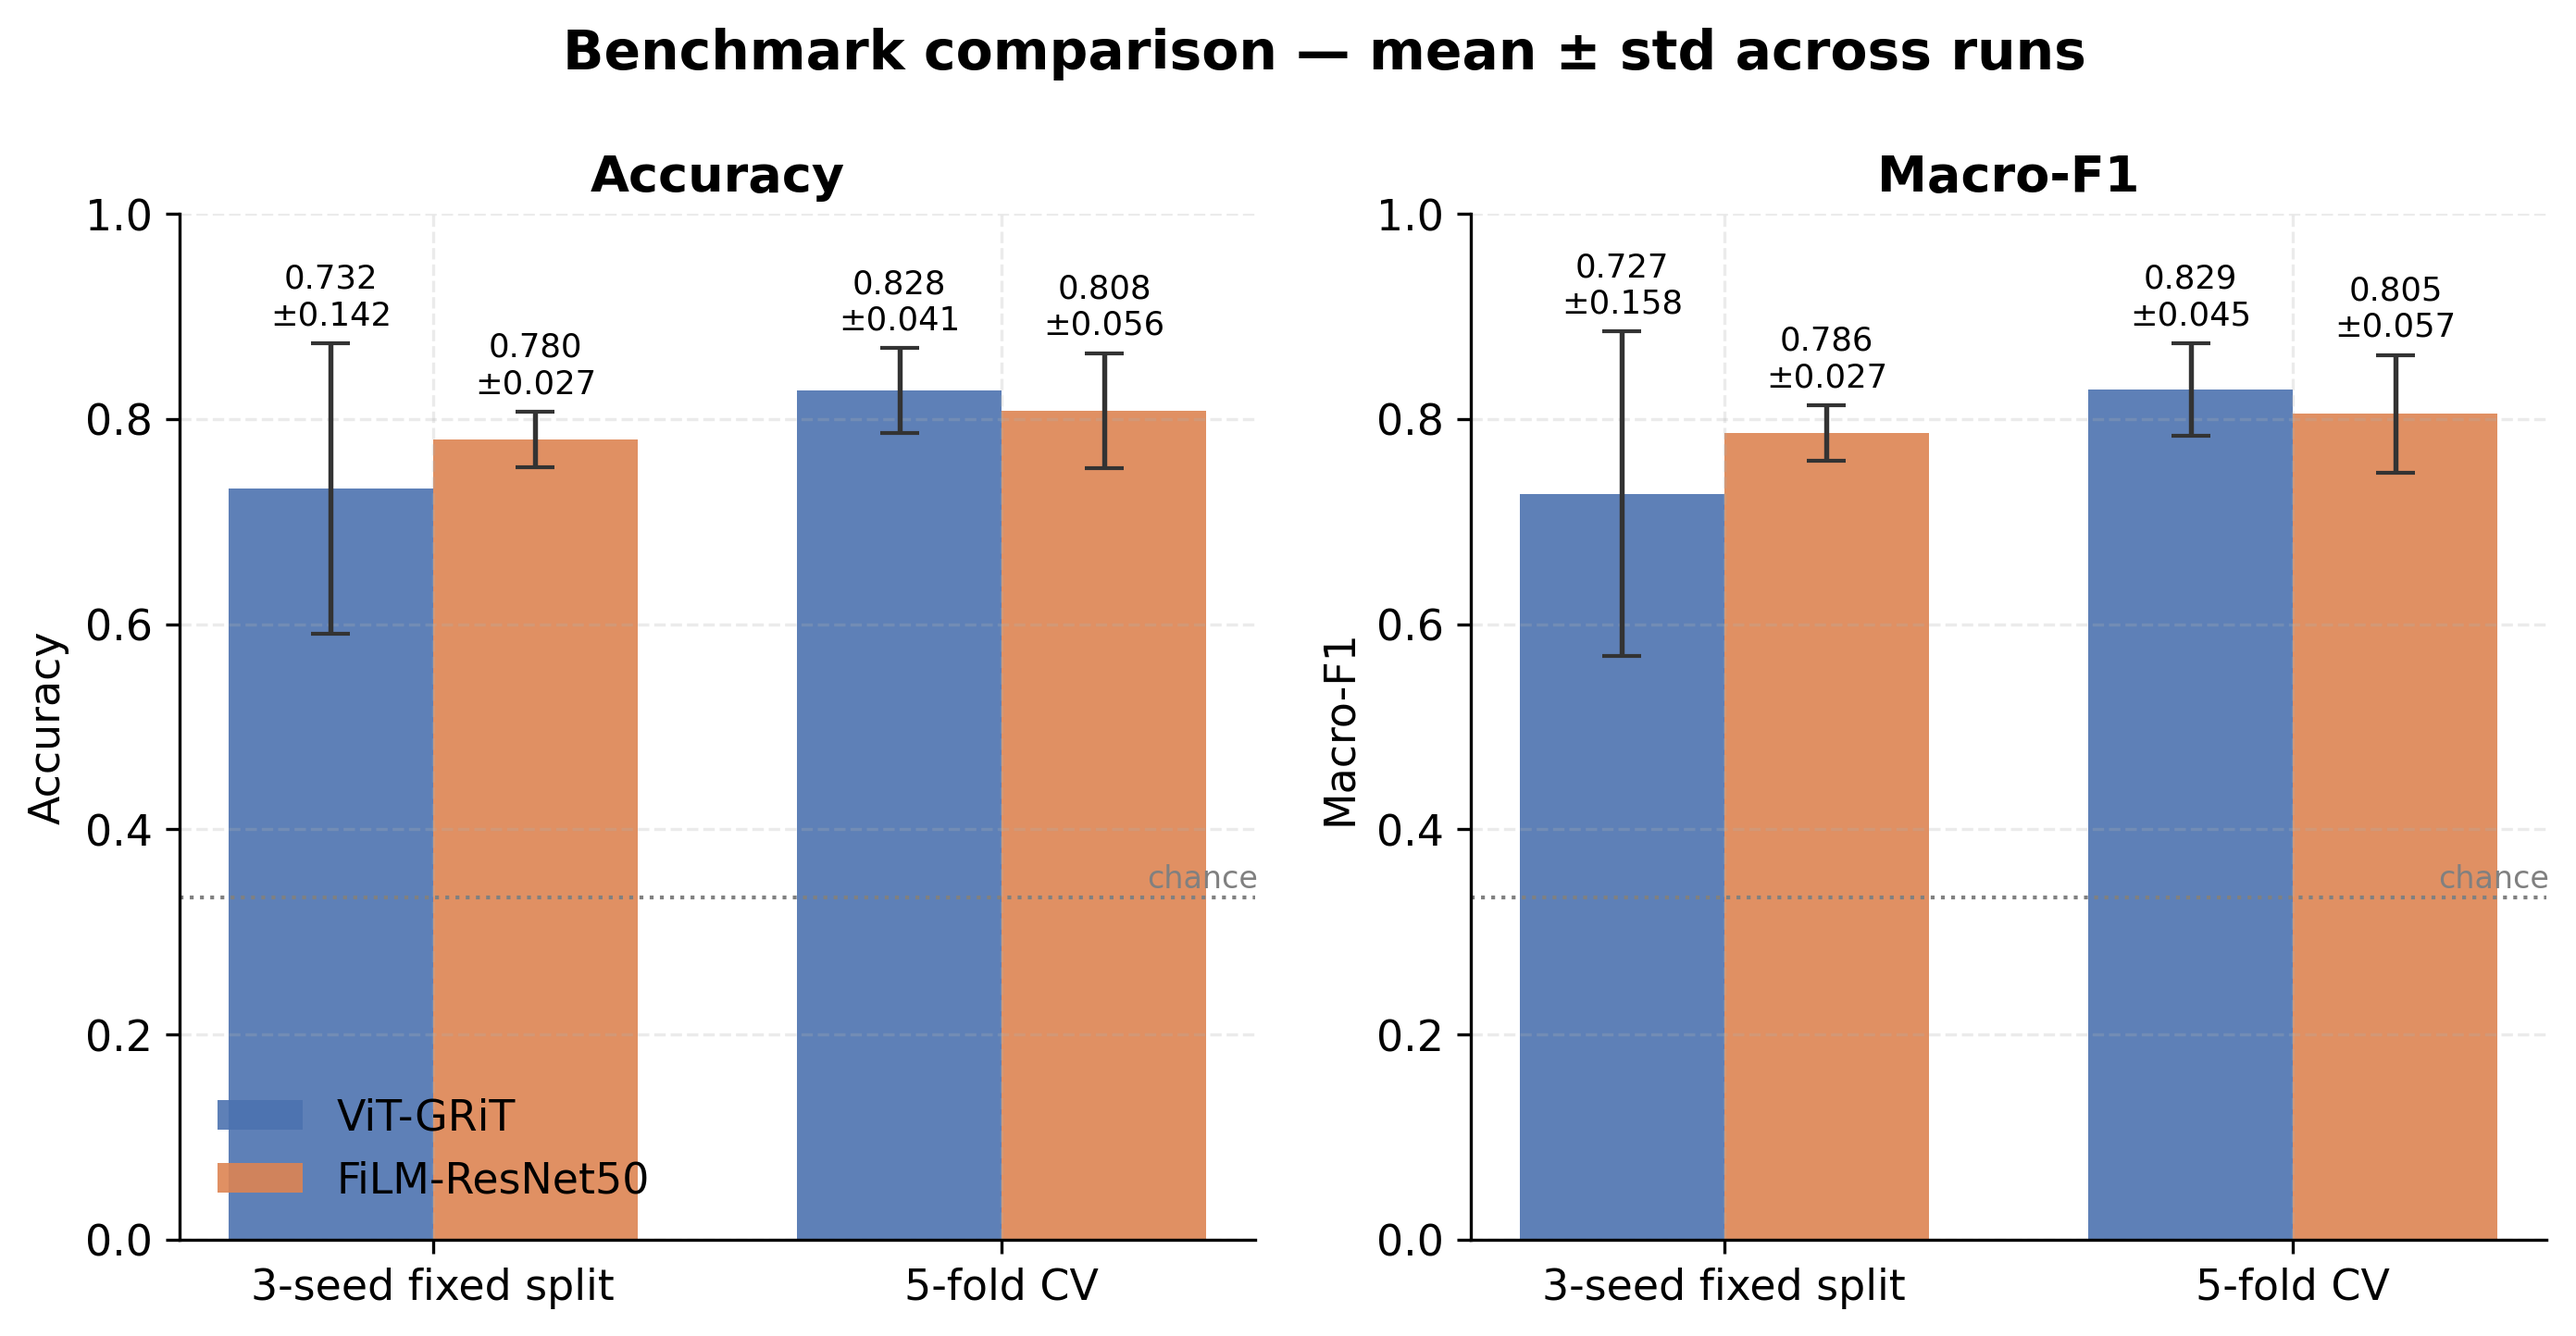
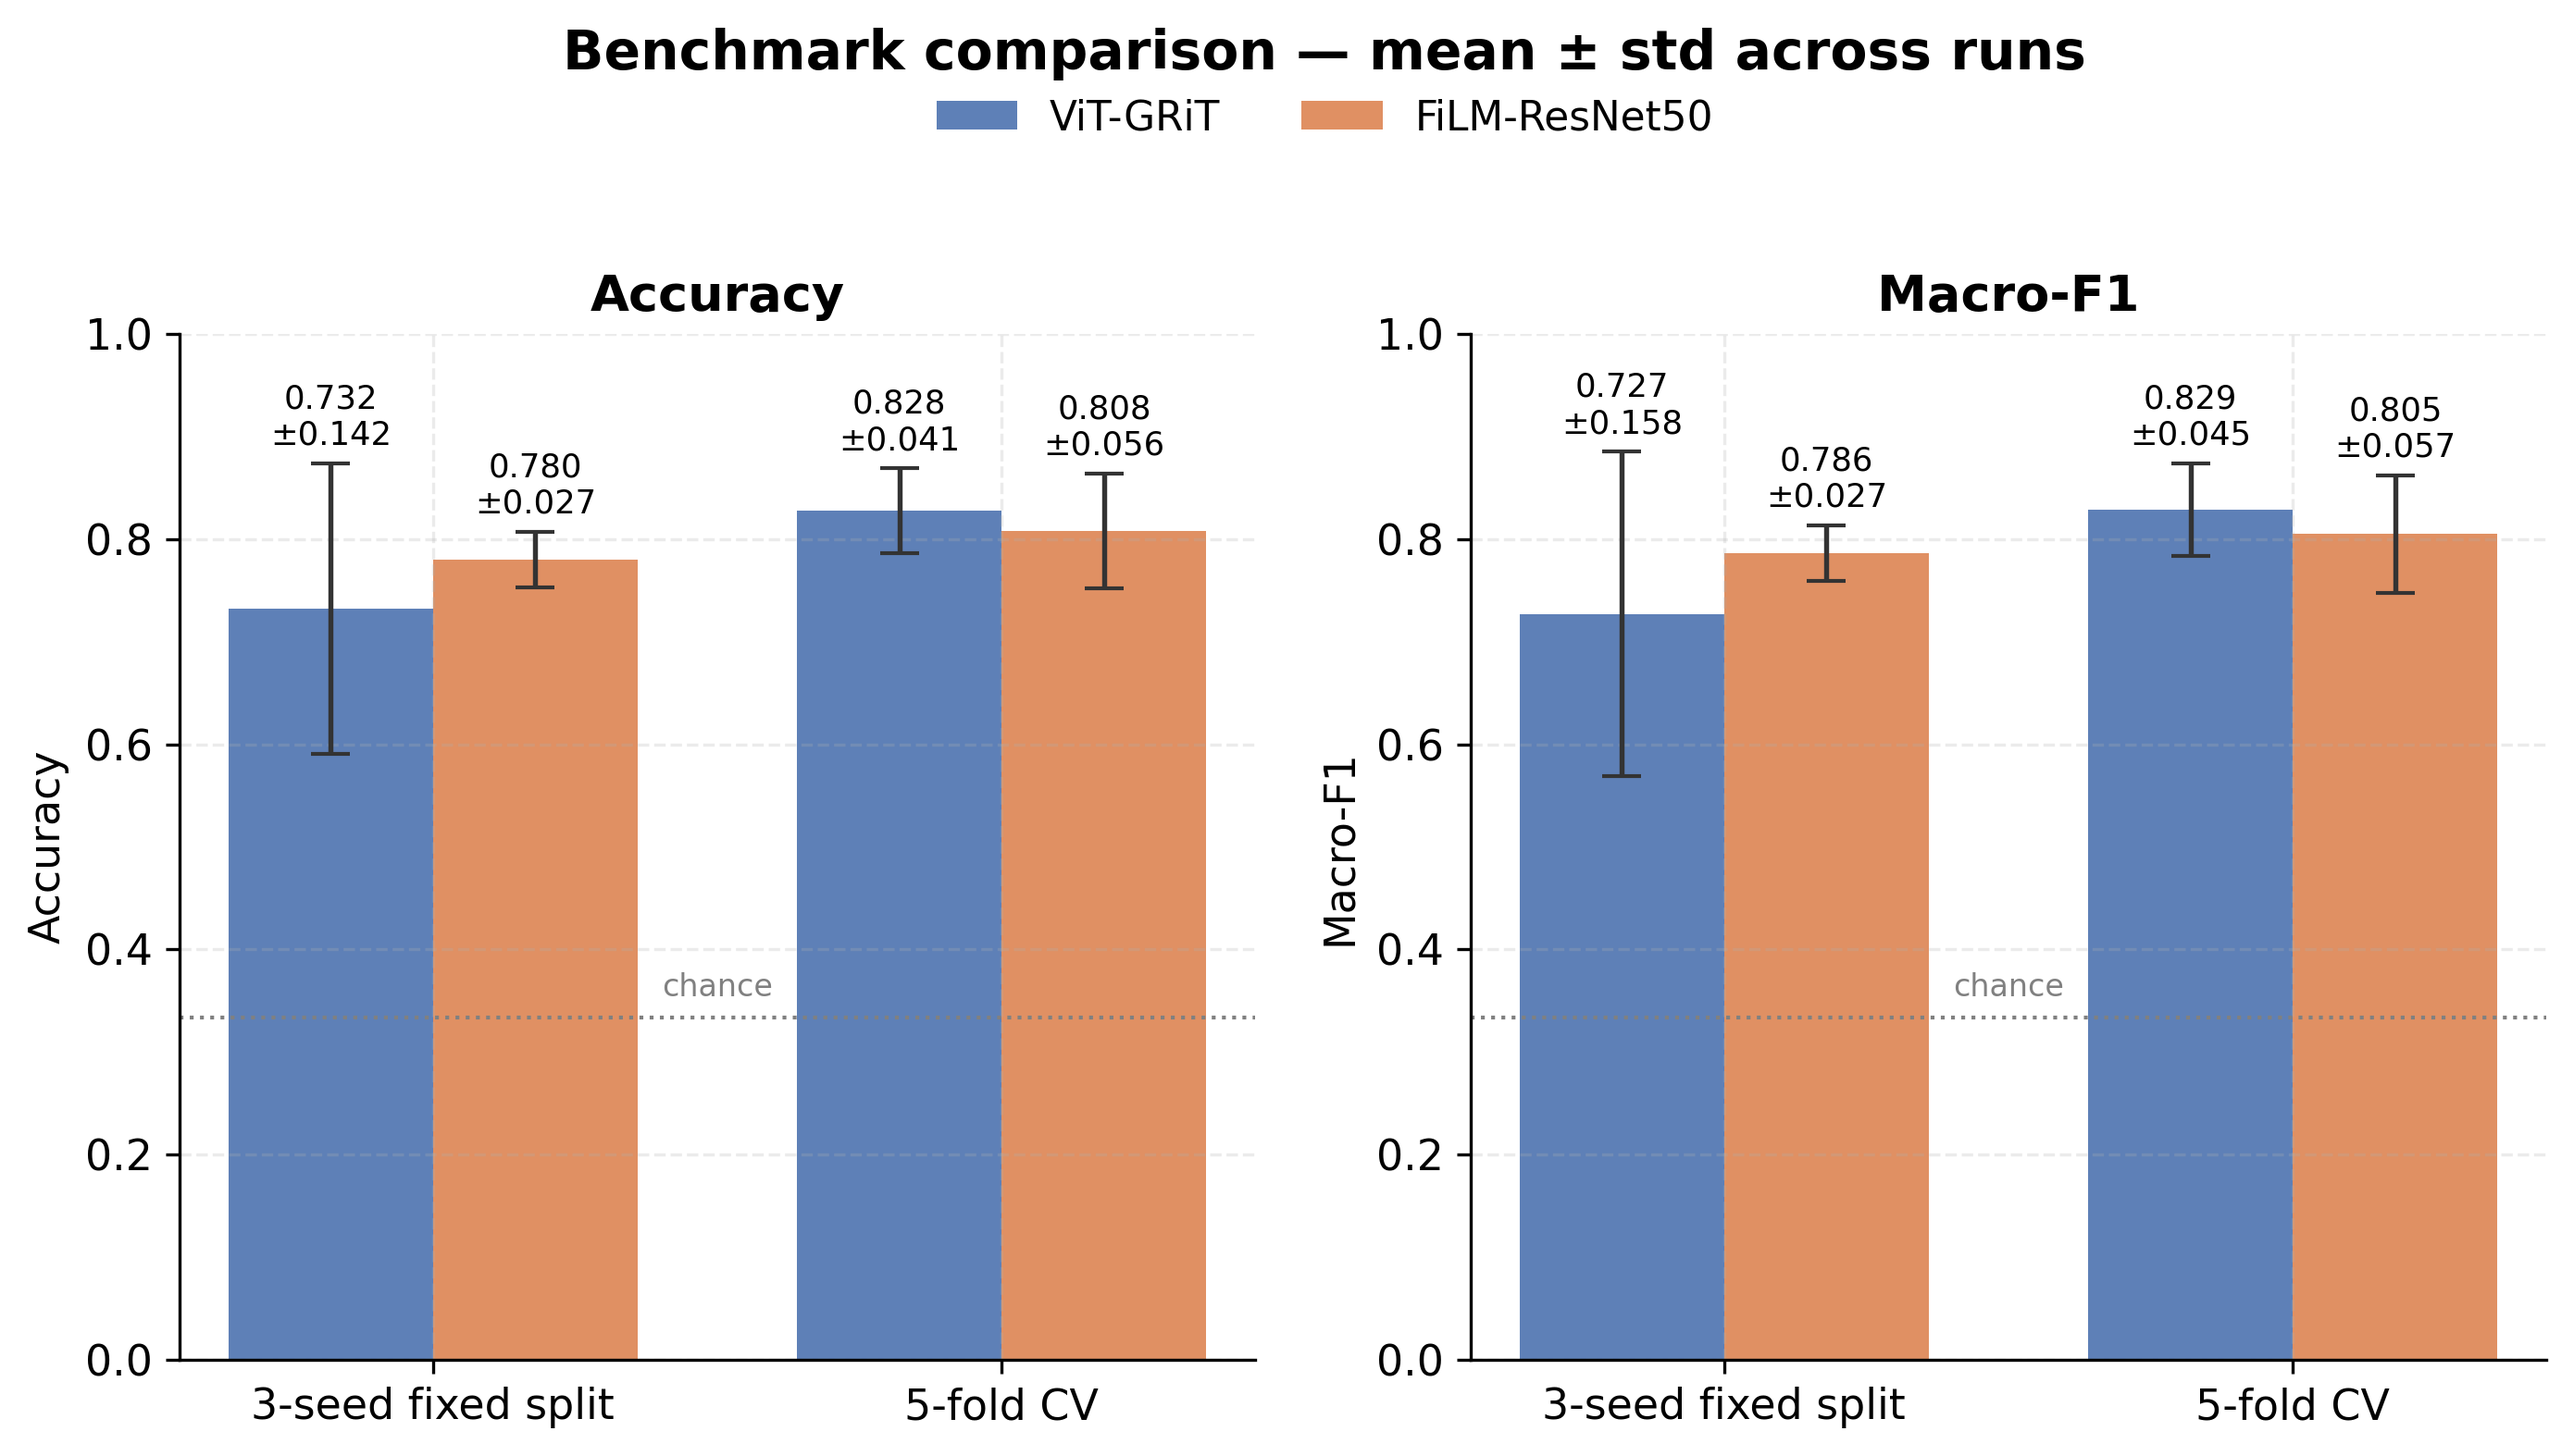
Fix legend placement in benchmark and per-class figures
Move both legends to a top-centered horizontal layout outside the plot area so
they no longer overlap the bars, and relocate the chance-line label into the
empty gap between bar groups in benchmark_comparison.

diff --git a/make_assets.py b/make_assets.py
@@ -108,11 +108,15 @@ def fig_benchmark():
         ax.set_ylabel(mname)
         ax.set_title(mname)
         ax.axhline(1 / 3, ls=":", c="grey", lw=1)
-        ax.text(1.45, 1 / 3 + 0.01, "chance", color="grey", fontsize=8, ha="right")
+        # label sits in the empty gap between the two bar groups
+        ax.text(0.5, 1 / 3 + 0.015, "chance", color="grey", fontsize=8,
+                ha="center", va="bottom")
 
-    axes[0].legend(loc="lower left")
+    handles, labels = axes[0].get_legend_handles_labels()
+    fig.legend(handles, labels, loc="lower center", ncol=2,
+               bbox_to_anchor=(0.5, 1.0), fontsize=10.5)
     fig.suptitle("Benchmark comparison — mean ± std across runs",
-                 fontsize=14, fontweight="bold", y=1.02)
+                 fontsize=14, fontweight="bold", y=1.11)
     out = f"{ASSETS}/benchmark_comparison.png"
     fig.savefig(out)
     plt.close(fig)
@@ -221,8 +225,11 @@ def fig_per_class():
     ax.set_xticks(x); ax.set_xticklabels(CLASSES)
     ax.set_ylim(0, 1.05)
     ax.set_ylabel("Per-class accuracy (recall)")
-    ax.set_title(f"Per-class accuracy — aggregated over 5-fold CV (n={n} images)")
-    ax.legend(loc="lower center")
+    handles, labels = ax.get_legend_handles_labels()
+    fig.legend(handles, labels, loc="lower center", ncol=2,
+               bbox_to_anchor=(0.5, 1.0), fontsize=10.5)
+    fig.suptitle(f"Per-class accuracy — aggregated over 5-fold CV (n={n} images)",
+                 fontsize=13, fontweight="bold", y=1.09)
     out = f"{ASSETS}/per_class_accuracy.png"
     fig.savefig(out)
     plt.close(fig)
